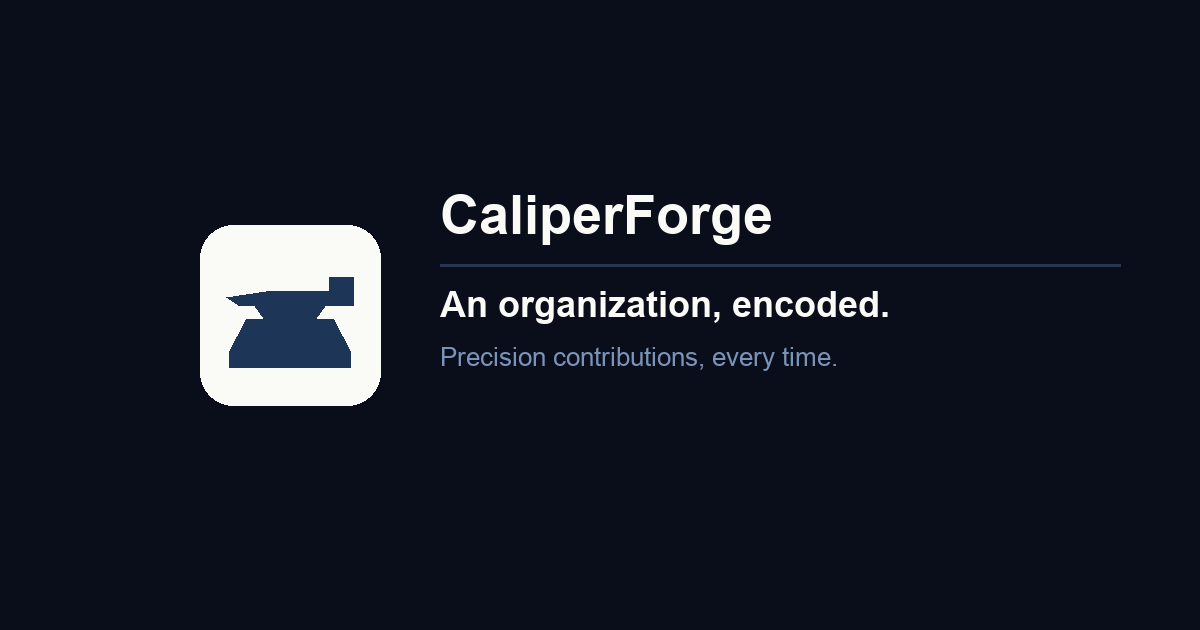
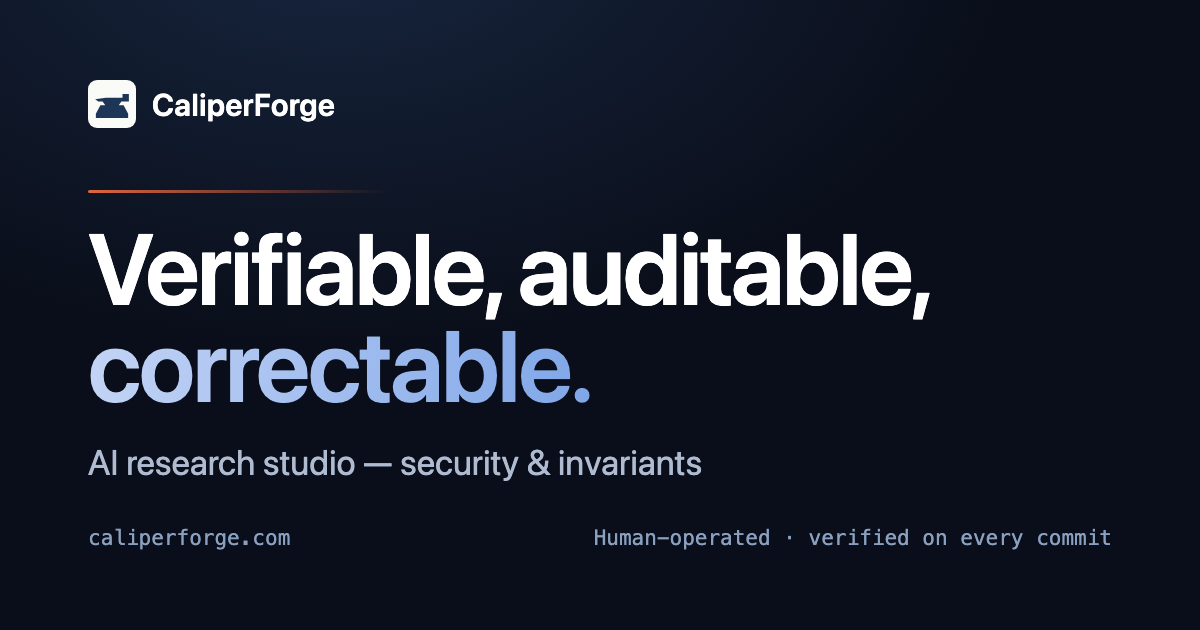
site: consistent top nav across all pages (What we caught in nav) + refreshed og.png social card

diff --git a/style.css b/style.css
@@ -1217,6 +1217,40 @@ a:hover {
     letter-spacing: -0.01em;
 }
 
+/* v6: subhero nav row — brandrow + nav-links side-by-side on sub-pages */
+
+.subhero-nav {
+    display: flex;
+    align-items: center;
+    justify-content: space-between;
+    gap: 1rem;
+    margin-bottom: 2.5rem;
+    border-bottom: 1px solid var(--hero-border);
+    padding-bottom: 1.25rem;
+}
+
+.subhero-nav .brandrow {
+    margin-bottom: 0;         /* clears .subhero .brandrow's standalone margin */
+}
+
+.subhero .nav-links {
+    display: flex;
+    gap: 1.5rem;
+    font-family: var(--font-sans);
+    font-size: 0.875rem;
+    color: var(--hero-text-muted);
+}
+
+.subhero .nav-links a {
+    color: var(--hero-text-muted);
+    text-decoration: none;
+    transition: color var(--dur-fast) var(--ease-out);
+}
+
+.subhero .nav-links a:hover {
+    color: var(--hero-text);
+}
+
 .subhero .kicker {
     font-family: var(--font-mono);
     font-size: 0.75rem;
@@ -1500,6 +1534,15 @@ a:hover {
         margin-bottom: 2rem;
     }
 
+    .subhero-nav .brandrow {
+        margin-bottom: 0;
+    }
+
+    .subhero .nav-links {
+        gap: 0.875rem;
+        font-size: 0.8125rem;
+    }
+
     .site-footer {
         padding: 3rem var(--gutter) 2rem;
     }
@@ -1510,7 +1553,8 @@ a:hover {
 }
 
 @media (max-width: 480px) {
-    .hero-nav .nav-links {
+    .hero-nav .nav-links,
+    .subhero .nav-links {
         display: none;
     }
 

diff --git a/ai-disclosure.html b/ai-disclosure.html
@@ -38,10 +38,19 @@
 <!-- ============= SUBHERO (dark, compact) ============================== -->
 <section class="subhero">
     <div class="subhero-inner">
-        <a href="/" class="brandrow">
-            <img src="/mark.svg" alt="" class="mark-sm" width="28" height="28">
-            <span class="wordmark">CaliperForge</span>
-        </a>
+        <nav class="subhero-nav" aria-label="Primary">
+            <a href="/" class="brandrow">
+                <img src="/mark.svg" alt="" class="mark-sm" width="28" height="28">
+                <span class="wordmark">CaliperForge</span>
+            </a>
+            <div class="nav-links">
+                <a href="/blog/">Blog</a>
+                <a href="/what-we-caught">What we caught</a>
+                <a href="/ai-disclosure">AI policy</a>
+                <a href="https://github.com/caliperforge" rel="me">GitHub</a>
+                <a href="mailto:[email redacted]">Contact</a>
+            </div>
+        </nav>
         <p class="kicker">Policy</p>
         <h1>AI-involvement disclosure.</h1>
         <p class="lede">

diff --git a/blog/01_caliperforge-origins.html b/blog/01_caliperforge-origins.html
@@ -38,10 +38,19 @@
 <!-- ============= SUBHERO (dark, compact) ============================== -->
 <section class="subhero">
     <div class="subhero-inner">
-        <a href="/" class="brandrow">
-            <img src="/mark.svg" alt="" class="mark-sm" width="28" height="28">
-            <span class="wordmark">CaliperForge</span>
-        </a>
+        <nav class="subhero-nav" aria-label="Primary">
+            <a href="/" class="brandrow">
+                <img src="/mark.svg" alt="" class="mark-sm" width="28" height="28">
+                <span class="wordmark">CaliperForge</span>
+            </a>
+            <div class="nav-links">
+                <a href="/blog/">Blog</a>
+                <a href="/what-we-caught">What we caught</a>
+                <a href="/ai-disclosure">AI policy</a>
+                <a href="https://github.com/caliperforge" rel="me">GitHub</a>
+                <a href="mailto:[email redacted]">Contact</a>
+            </div>
+        </nav>
         <p class="kicker">Blog &middot; 2026-06-01 &middot; Michael Moffett</p>
         <h1>cf-invariants &mdash; building the missing layer in Cairo testing.</h1>
         <p class="lede">

diff --git a/blog/02_cf-invariants-anchor-on-crucible.html b/blog/02_cf-invariants-anchor-on-crucible.html
@@ -38,10 +38,19 @@
 <!-- ============= SUBHERO (dark, compact) ============================== -->
 <section class="subhero">
     <div class="subhero-inner">
-        <a href="/" class="brandrow">
-            <img src="/mark.svg" alt="" class="mark-sm" width="28" height="28">
-            <span class="wordmark">CaliperForge</span>
-        </a>
+        <nav class="subhero-nav" aria-label="Primary">
+            <a href="/" class="brandrow">
+                <img src="/mark.svg" alt="" class="mark-sm" width="28" height="28">
+                <span class="wordmark">CaliperForge</span>
+            </a>
+            <div class="nav-links">
+                <a href="/blog/">Blog</a>
+                <a href="/what-we-caught">What we caught</a>
+                <a href="/ai-disclosure">AI policy</a>
+                <a href="https://github.com/caliperforge" rel="me">GitHub</a>
+                <a href="mailto:[email redacted]">Contact</a>
+            </div>
+        </nav>
         <p class="kicker">Blog &middot; 2026-06-02 &middot; Michael Moffett</p>
         <h1>Stateful invariant testing for Solana/Anchor &mdash; cf-invariants-anchor on Crucible.</h1>
         <p class="lede">

diff --git a/blog/03_cairo-references-expansion-and-chimera-template-pack.html b/blog/03_cairo-references-expansion-and-chimera-template-pack.html
@@ -38,10 +38,19 @@
 <!-- ============= SUBHERO (dark, compact) ============================== -->
 <section class="subhero">
     <div class="subhero-inner">
-        <a href="/" class="brandrow">
-            <img src="/mark.svg" alt="" class="mark-sm" width="28" height="28">
-            <span class="wordmark">CaliperForge</span>
-        </a>
+        <nav class="subhero-nav" aria-label="Primary">
+            <a href="/" class="brandrow">
+                <img src="/mark.svg" alt="" class="mark-sm" width="28" height="28">
+                <span class="wordmark">CaliperForge</span>
+            </a>
+            <div class="nav-links">
+                <a href="/blog/">Blog</a>
+                <a href="/what-we-caught">What we caught</a>
+                <a href="/ai-disclosure">AI policy</a>
+                <a href="https://github.com/caliperforge" rel="me">GitHub</a>
+                <a href="mailto:[email redacted]">Contact</a>
+            </div>
+        </nav>
         <p class="kicker">Blog &middot; 2026-06-02 &middot; Michael Moffett</p>
         <h1>Build update &mdash; cf-invariants Cairo suite grows to nine, chimera-template-pack ships.</h1>
         <p class="lede">

diff --git a/blog/04_cf-invariants-jito-first-real-protocol-harnessed.html b/blog/04_cf-invariants-jito-first-real-protocol-harnessed.html
@@ -47,10 +47,19 @@
 <!-- ============= SUBHERO (dark, compact) ============================== -->
 <section class="subhero">
     <div class="subhero-inner">
-        <a href="/" class="brandrow">
-            <img src="/mark.svg" alt="" class="mark-sm" width="28" height="28">
-            <span class="wordmark">CaliperForge</span>
-        </a>
+        <nav class="subhero-nav" aria-label="Primary">
+            <a href="/" class="brandrow">
+                <img src="/mark.svg" alt="" class="mark-sm" width="28" height="28">
+                <span class="wordmark">CaliperForge</span>
+            </a>
+            <div class="nav-links">
+                <a href="/blog/">Blog</a>
+                <a href="/what-we-caught">What we caught</a>
+                <a href="/ai-disclosure">AI policy</a>
+                <a href="https://github.com/caliperforge" rel="me">GitHub</a>
+                <a href="mailto:[email redacted]">Contact</a>
+            </div>
+        </nav>
         <p class="kicker">Blog &middot; 2026-06-03 &middot; Michael Moffett</p>
         <h1>First real protocol harnessed &mdash; cf-invariants-jito on Crucible.</h1>
         <p class="lede">

diff --git a/blog/05_jito-tippayment-and-ai-invariant-suggester-live.html b/blog/05_jito-tippayment-and-ai-invariant-suggester-live.html
@@ -54,10 +54,19 @@
 <!-- ============= SUBHERO (dark, compact) ============================== -->
 <section class="subhero">
     <div class="subhero-inner">
-        <a href="/" class="brandrow">
-            <img src="/mark.svg" alt="" class="mark-sm" width="28" height="28">
-            <span class="wordmark">CaliperForge</span>
-        </a>
+        <nav class="subhero-nav" aria-label="Primary">
+            <a href="/" class="brandrow">
+                <img src="/mark.svg" alt="" class="mark-sm" width="28" height="28">
+                <span class="wordmark">CaliperForge</span>
+            </a>
+            <div class="nav-links">
+                <a href="/blog/">Blog</a>
+                <a href="/what-we-caught">What we caught</a>
+                <a href="/ai-disclosure">AI policy</a>
+                <a href="https://github.com/caliperforge" rel="me">GitHub</a>
+                <a href="mailto:[email redacted]">Contact</a>
+            </div>
+        </nav>
         <p class="kicker">Blog &middot; 2026-06-03 &middot; Michael Moffett</p>
         <h1>Two Jito programs on the same rails &mdash; and the AI invariant-suggester goes live.</h1>
         <p class="lede">

diff --git a/blog/06_cf-invariants-sepolia-suite-expansion-6-to-12-and-ci-green.html b/blog/06_cf-invariants-sepolia-suite-expansion-6-to-12-and-ci-green.html
@@ -58,10 +58,19 @@
 <!-- ============= SUBHERO (dark, compact) ============================== -->
 <section class="subhero">
     <div class="subhero-inner">
-        <a href="/" class="brandrow">
-            <img src="/mark.svg" alt="" class="mark-sm" width="28" height="28">
-            <span class="wordmark">CaliperForge</span>
-        </a>
+        <nav class="subhero-nav" aria-label="Primary">
+            <a href="/" class="brandrow">
+                <img src="/mark.svg" alt="" class="mark-sm" width="28" height="28">
+                <span class="wordmark">CaliperForge</span>
+            </a>
+            <div class="nav-links">
+                <a href="/blog/">Blog</a>
+                <a href="/what-we-caught">What we caught</a>
+                <a href="/ai-disclosure">AI policy</a>
+                <a href="https://github.com/caliperforge" rel="me">GitHub</a>
+                <a href="mailto:[email redacted]">Contact</a>
+            </div>
+        </nav>
         <p class="kicker">Blog &middot; 2026-06-07 &middot; Michael Moffett</p>
         <h1>cf-invariants on Starknet Sepolia &mdash; twelve references, paired clean/planted CI green.</h1>
         <p class="lede">

diff --git a/blog/07_exploit-invariant-atlas.html b/blog/07_exploit-invariant-atlas.html
@@ -44,10 +44,19 @@
 <!-- ============= SUBHERO (dark, compact) ============================== -->
 <section class="subhero">
     <div class="subhero-inner">
-        <a href="/" class="brandrow">
-            <img src="/mark.svg" alt="" class="mark-sm" width="28" height="28">
-            <span class="wordmark">CaliperForge</span>
-        </a>
+        <nav class="subhero-nav" aria-label="Primary">
+            <a href="/" class="brandrow">
+                <img src="/mark.svg" alt="" class="mark-sm" width="28" height="28">
+                <span class="wordmark">CaliperForge</span>
+            </a>
+            <div class="nav-links">
+                <a href="/blog/">Blog</a>
+                <a href="/what-we-caught">What we caught</a>
+                <a href="/ai-disclosure">AI policy</a>
+                <a href="https://github.com/caliperforge" rel="me">GitHub</a>
+                <a href="mailto:[email redacted]">Contact</a>
+            </div>
+        </nav>
         <p class="kicker">Blog &middot; 2026-06-08 &middot; Michael Moffett</p>
         <h1>Exploit&rarr;Invariant Atlas v0.1: six real hacks, four VMs, one CI gate.</h1>
         <p class="lede">

diff --git a/blog/08_planted-twin-methodology.html b/blog/08_planted-twin-methodology.html
@@ -43,10 +43,19 @@
 <!-- ============= SUBHERO (dark, compact) ============================== -->
 <section class="subhero">
     <div class="subhero-inner">
-        <a href="/" class="brandrow">
-            <img src="/mark.svg" alt="" class="mark-sm" width="28" height="28">
-            <span class="wordmark">CaliperForge</span>
-        </a>
+        <nav class="subhero-nav" aria-label="Primary">
+            <a href="/" class="brandrow">
+                <img src="/mark.svg" alt="" class="mark-sm" width="28" height="28">
+                <span class="wordmark">CaliperForge</span>
+            </a>
+            <div class="nav-links">
+                <a href="/blog/">Blog</a>
+                <a href="/what-we-caught">What we caught</a>
+                <a href="/ai-disclosure">AI policy</a>
+                <a href="https://github.com/caliperforge" rel="me">GitHub</a>
+                <a href="mailto:[email redacted]">Contact</a>
+            </div>
+        </nav>
         <p class="kicker">Blog &middot; 2026-06-12 &middot; Michael Moffett</p>
         <h1>The planted-twin methodology: what it is and what it is not.</h1>
         <p class="lede">

diff --git a/blog/index.html b/blog/index.html
@@ -38,10 +38,19 @@
 <!-- ============= SUBHERO (dark, compact) ============================== -->
 <section class="subhero">
     <div class="subhero-inner">
-        <a href="/" class="brandrow">
-            <img src="/mark.svg" alt="" class="mark-sm" width="28" height="28">
-            <span class="wordmark">CaliperForge</span>
-        </a>
+        <nav class="subhero-nav" aria-label="Primary">
+            <a href="/" class="brandrow">
+                <img src="/mark.svg" alt="" class="mark-sm" width="28" height="28">
+                <span class="wordmark">CaliperForge</span>
+            </a>
+            <div class="nav-links">
+                <a href="/blog/">Blog</a>
+                <a href="/what-we-caught">What we caught</a>
+                <a href="/ai-disclosure">AI policy</a>
+                <a href="https://github.com/caliperforge" rel="me">GitHub</a>
+                <a href="mailto:[email redacted]">Contact</a>
+            </div>
+        </nav>
         <p class="kicker">Blog</p>
         <h1>Notes from the workbench.</h1>
         <!-- v5: caliper rule — decorative brand signature, no content -->

diff --git a/what-we-caught.html b/what-we-caught.html
@@ -37,10 +37,19 @@
 <!-- ============= SUBHERO (dark, compact) ============================== -->
 <section class="subhero">
     <div class="subhero-inner">
-        <a href="/" class="brandrow">
-            <img src="/mark.svg" alt="" class="mark-sm" width="28" height="28">
-            <span class="wordmark">CaliperForge</span>
-        </a>
+        <nav class="subhero-nav" aria-label="Primary">
+            <a href="/" class="brandrow">
+                <img src="/mark.svg" alt="" class="mark-sm" width="28" height="28">
+                <span class="wordmark">CaliperForge</span>
+            </a>
+            <div class="nav-links">
+                <a href="/blog/">Blog</a>
+                <a href="/what-we-caught">What we caught</a>
+                <a href="/ai-disclosure">AI policy</a>
+                <a href="https://github.com/caliperforge" rel="me">GitHub</a>
+                <a href="mailto:[email redacted]">Contact</a>
+            </div>
+        </nav>
         <p class="kicker">Self-correction record</p>
         <h1>What our gates caught.</h1>
         <p class="lede">